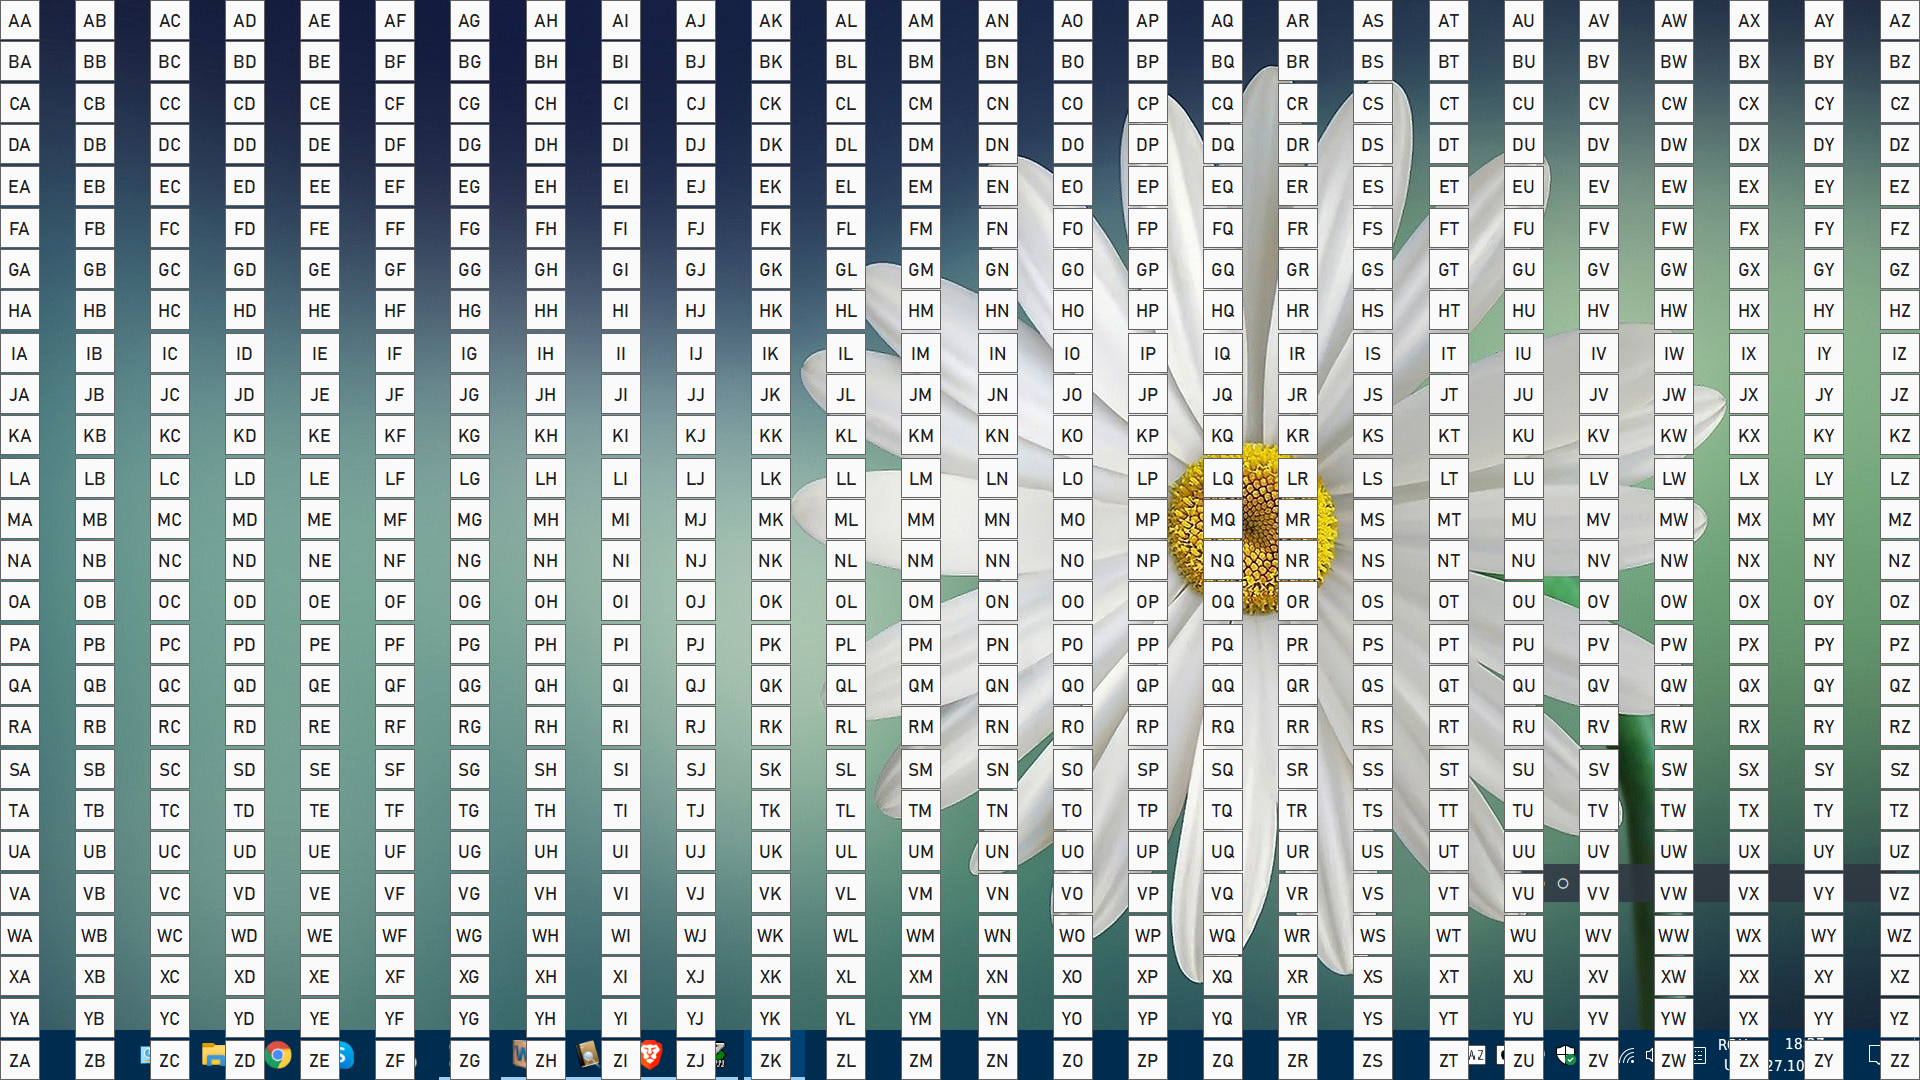
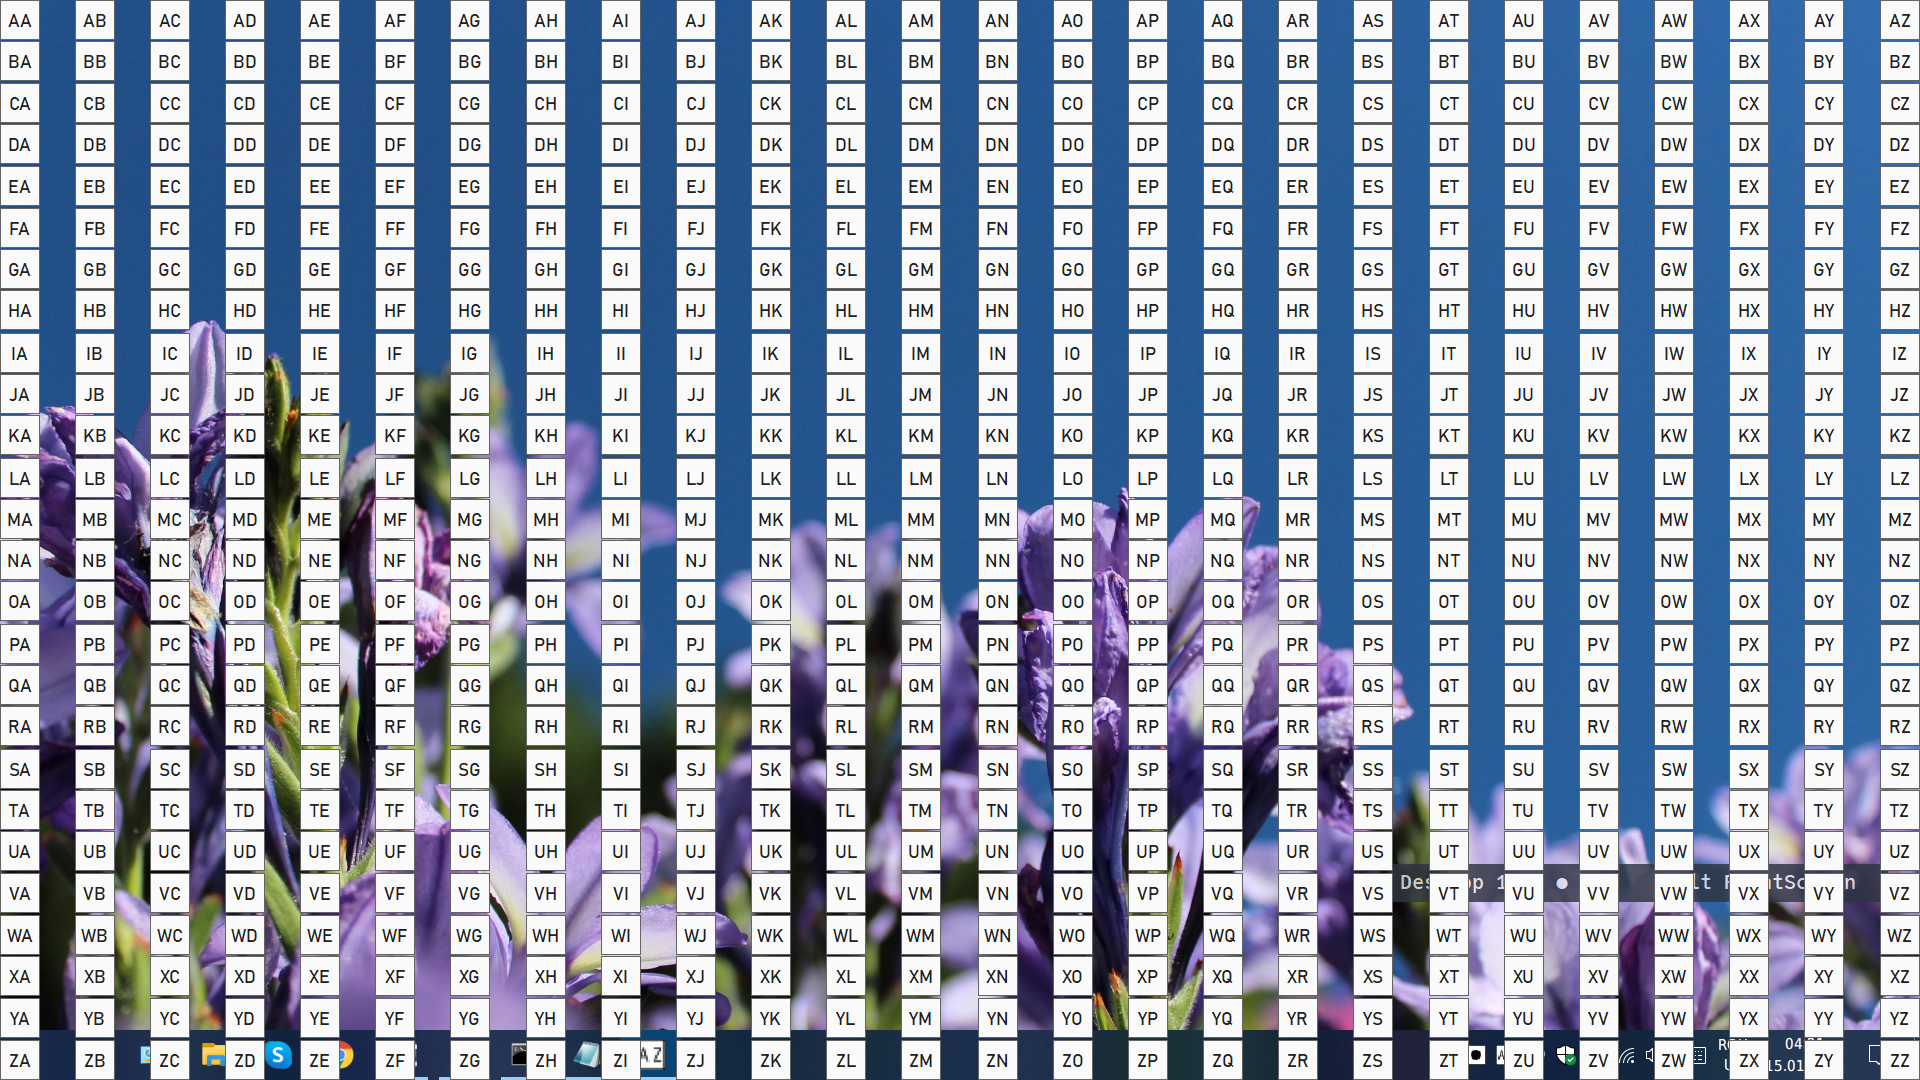
readme, screens

diff --git a/README.md b/README.md
@@ -1,7 +1,7 @@
 # slimwin: slightly improved windows
 
 ## knews: keyboard news
-intended to complement the task bar and the task switcher: lock keys status, last pressed key, mouse hanger, task switcher keyboard binding.
+intended to complement the task bar and the task switcher: display current virtual desktop name, lock keys status, last pressed key, mouse hanger, task switcher keyboard binding.
 
 ## mhints: mouse hints
 intended to complement built-in mouse keys capabilities: a 26x26 mouse movement hinting system grid with no clicks, by default.
